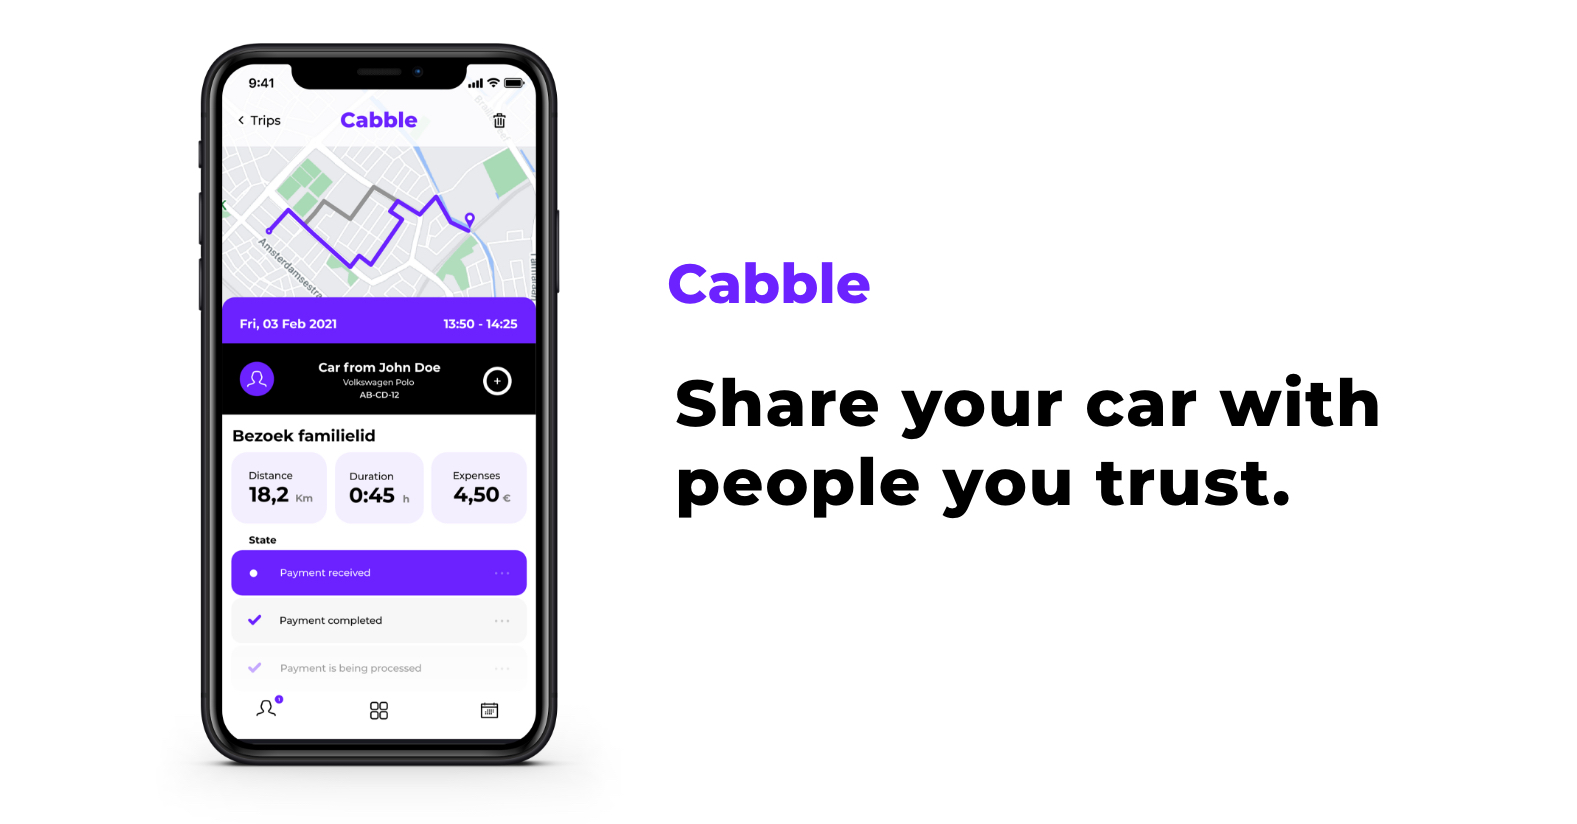
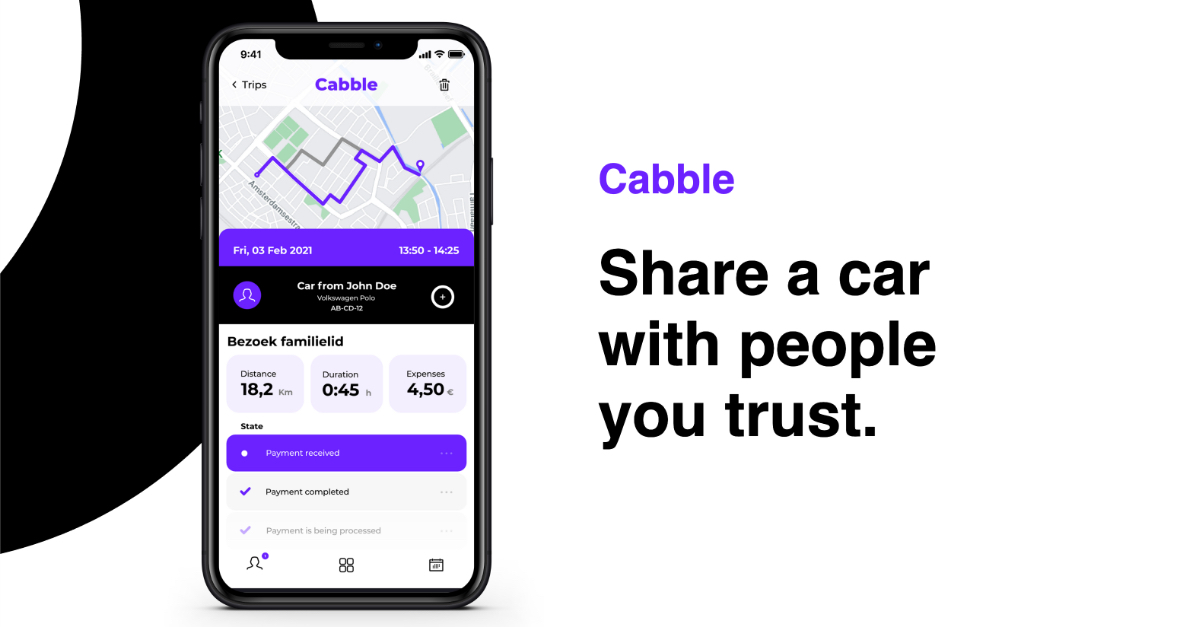
New OG image + title

Changed region(s): [[0.0, 0.0, 0.8949, 1.0]]

diff --git a/index.html b/index.html
@@ -52,8 +52,8 @@
             <p class="brand-name">Cabble</p>
             <h1 class="title">Share a car with people you trust.</h1>
             <p class="subtitle">
-                Just start driving,<br/>
-                Cabble takes care of the rest.
+                Share a car with a friend, neighbour or<br/>
+                roommate. Cabble does the paperwork.
             </p>
             <a class="get-it button" href="#footer">
                 Get it
@@ -155,11 +155,6 @@
       });
     })
   })(jQuery);
-
-  window['GoogleAnalyticsObject'] = 'ga';
-  window['ga'] = window['ga'] || function() {
-    (window['ga'].q = window['ga'].q || []).push(arguments)
-  };
 </script>
 </body>
 </html>
